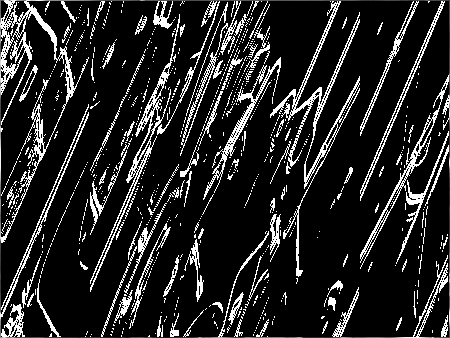
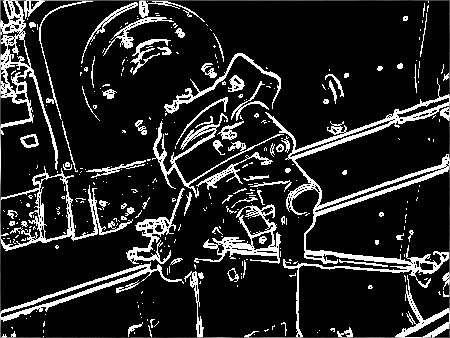
boom boom :))) de 4 ore cu Cristinutza pe skype

diff --git a/MPI/src/Image.java b/MPI/src/Image.java
@@ -374,6 +374,10 @@ public class Image implements Serializable {
                     sobelValues[idx] = 0;
                 idx++;
             }
+            else {
+                sobelValues[idx] = 0;
+                idx++;
+            }
             j++;
             computed++;
         }
@@ -453,6 +457,10 @@ public class Image implements Serializable {
                     values[idx] = 255;
                 else
                     values[idx] = 0;
+                idx++;
+            }
+            else {
+                values[idx] = 0;
                 idx++;
             }
             j++;
